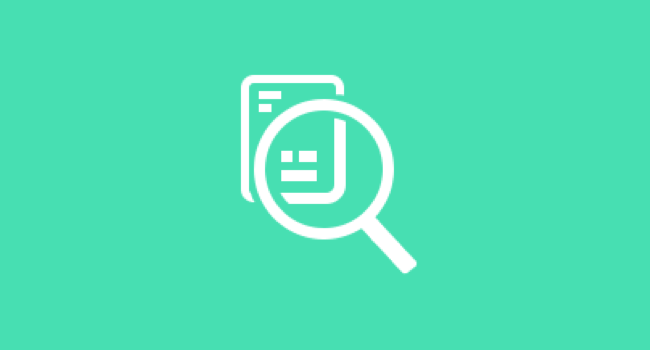
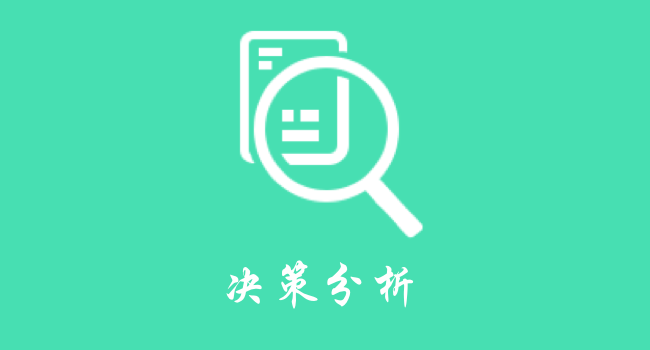
Commit 2
Commit 2 checked

Changed region(s): [[0.3692, 0.0857, 0.6769, 0.8571], [0.4308, 0.7429, 0.5538, 0.8857], [0.3385, 0.7714, 0.4, 0.8857]]

diff --git a/index.html b/index.html
@@ -175,7 +175,7 @@
 	<div class="header-content">
 		<div class="header-content-inner">
 			<h1>上海精睿科技有限公司</h1>
-			<br/><br/><br/><br/><br/><br/><br/><br/><br/><br/><br/><br/><br/><br/><br/><br/><br/><br/><br/><br/><br/><br/>
+			<br/><br/><br/><br/><br/><br/><br/><br/><br/><br/><br/><br/><br/><br/><br/><br/><br/><br/><br/><br/><br/><br/><br/><br/><br/><br/><br/><br/>
 		</div>
 	</div>
 </header>
@@ -189,10 +189,10 @@
                     <div class="portfolio-box-caption">
                         <div class="portfolio-box-caption-content">
                             <div class="project-category text-faded">
-                                Category
+                                初步趋势展示
                             </div>
                             <div class="project-name">
-                                信息查看
+                                销售数据上传
                             </div>
                         </div>
                     </div>
@@ -204,10 +204,10 @@
                     <div class="portfolio-box-caption">
                         <div class="portfolio-box-caption-content">
                             <div class="project-category text-faded">
-                                Category
+                                方案制定
                             </div>
                             <div class="project-name">
-                                决策分析
+                                规则制定
                             </div>
                         </div>
                     </div>
@@ -219,10 +219,10 @@
                     <div class="portfolio-box-caption">
                         <div class="portfolio-box-caption-content">
                             <div class="project-category text-faded">
-                                Category
+                                
                             </div>
                             <div class="project-name">
-                                中长期预测
+                                品类各季度销量预测
                             </div>
                         </div>
                     </div>
@@ -234,10 +234,10 @@
                     <div class="portfolio-box-caption">
                         <div class="portfolio-box-caption-content">
                             <div class="project-category text-faded">
-                                Category
+                                
                             </div>
                             <div class="project-name">
-                                滚动预测
+                                SKU各周销量预测
                             </div>
                         </div>
                     </div>
@@ -249,10 +249,10 @@
                     <div class="portfolio-box-caption">
                         <div class="portfolio-box-caption-content">
                             <div class="project-category text-faded">
-                                Category
+                                
                             </div>
                             <div class="project-name">
-                                协同预测
+                                实际销售协同调整
                             </div>
                         </div>
                     </div>
@@ -264,10 +264,10 @@
                     <div class="portfolio-box-caption">
                         <div class="portfolio-box-caption-content">
                             <div class="project-category text-faded">
-                                Category
+                                
                             </div>
                             <div class="project-name">
-                                系统管理
+                                数据、店铺及会员管理
                             </div>
                         </div>
                     </div>
